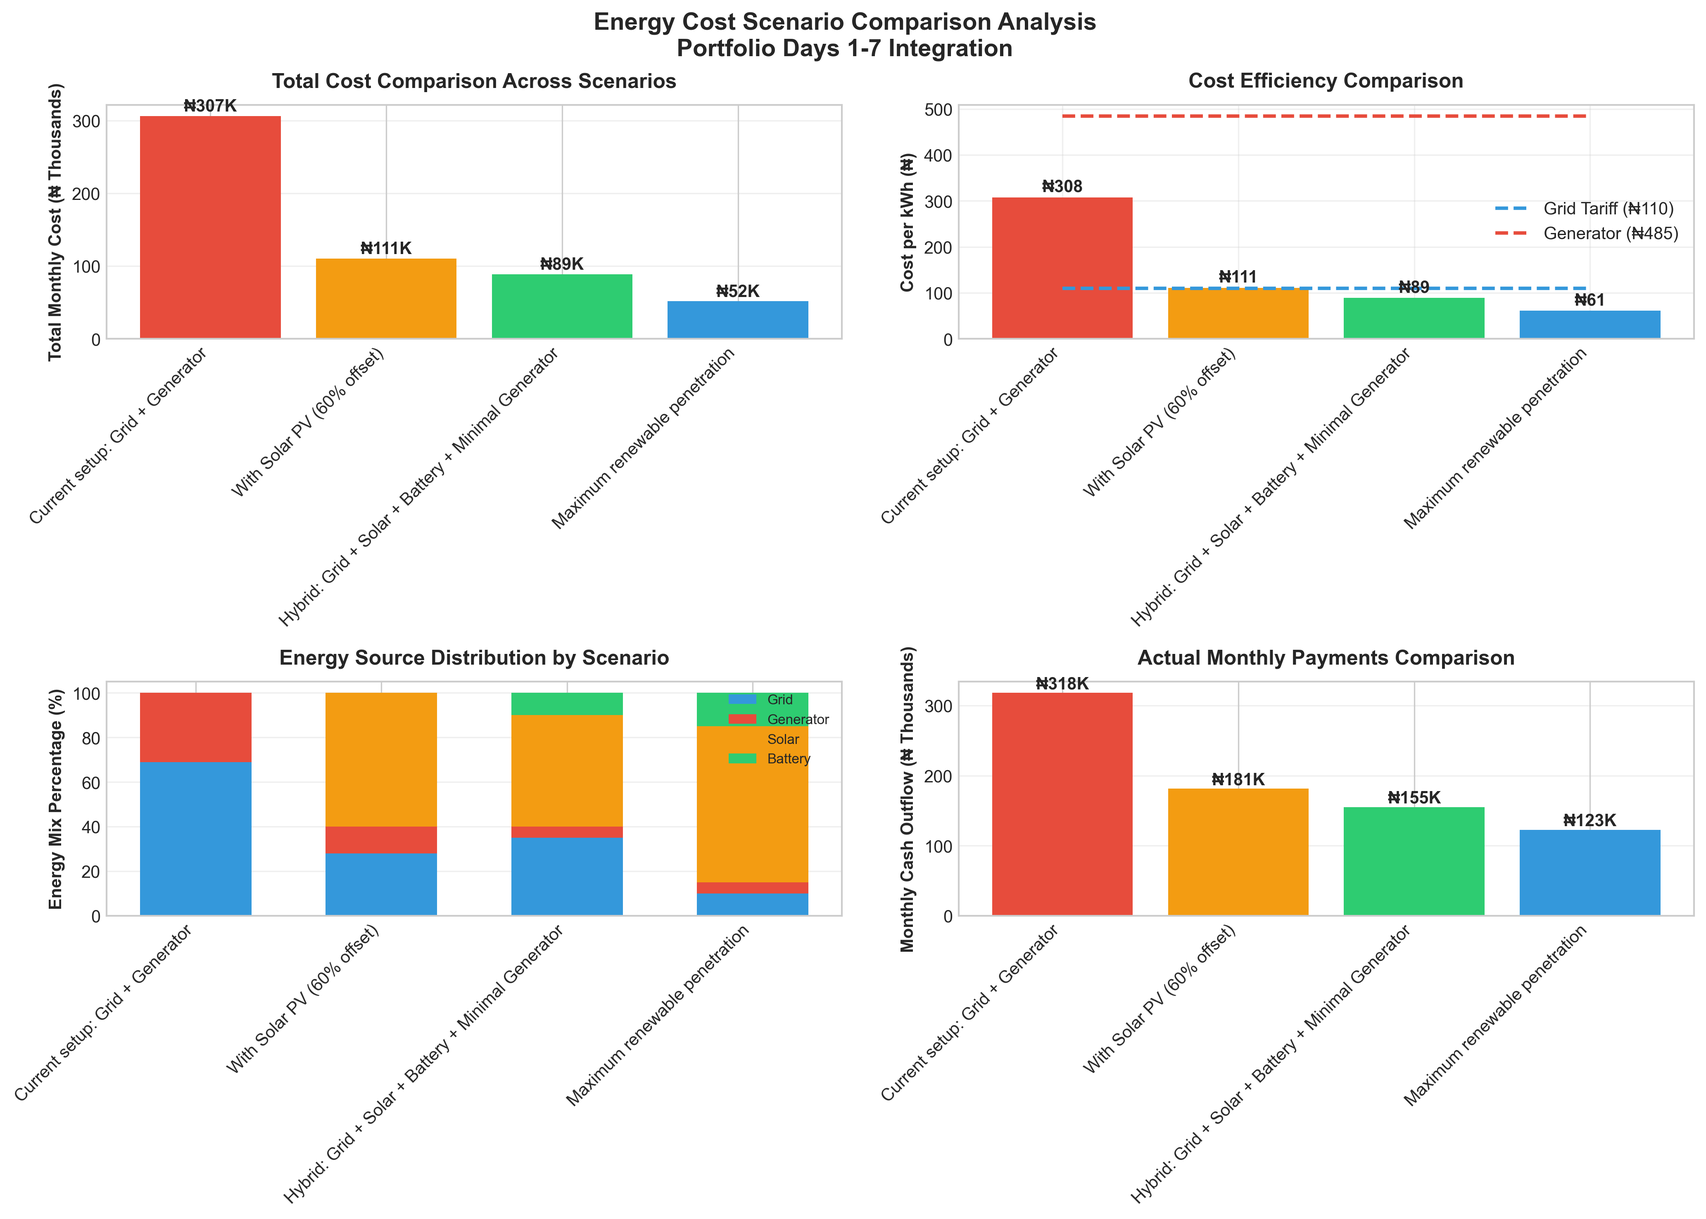
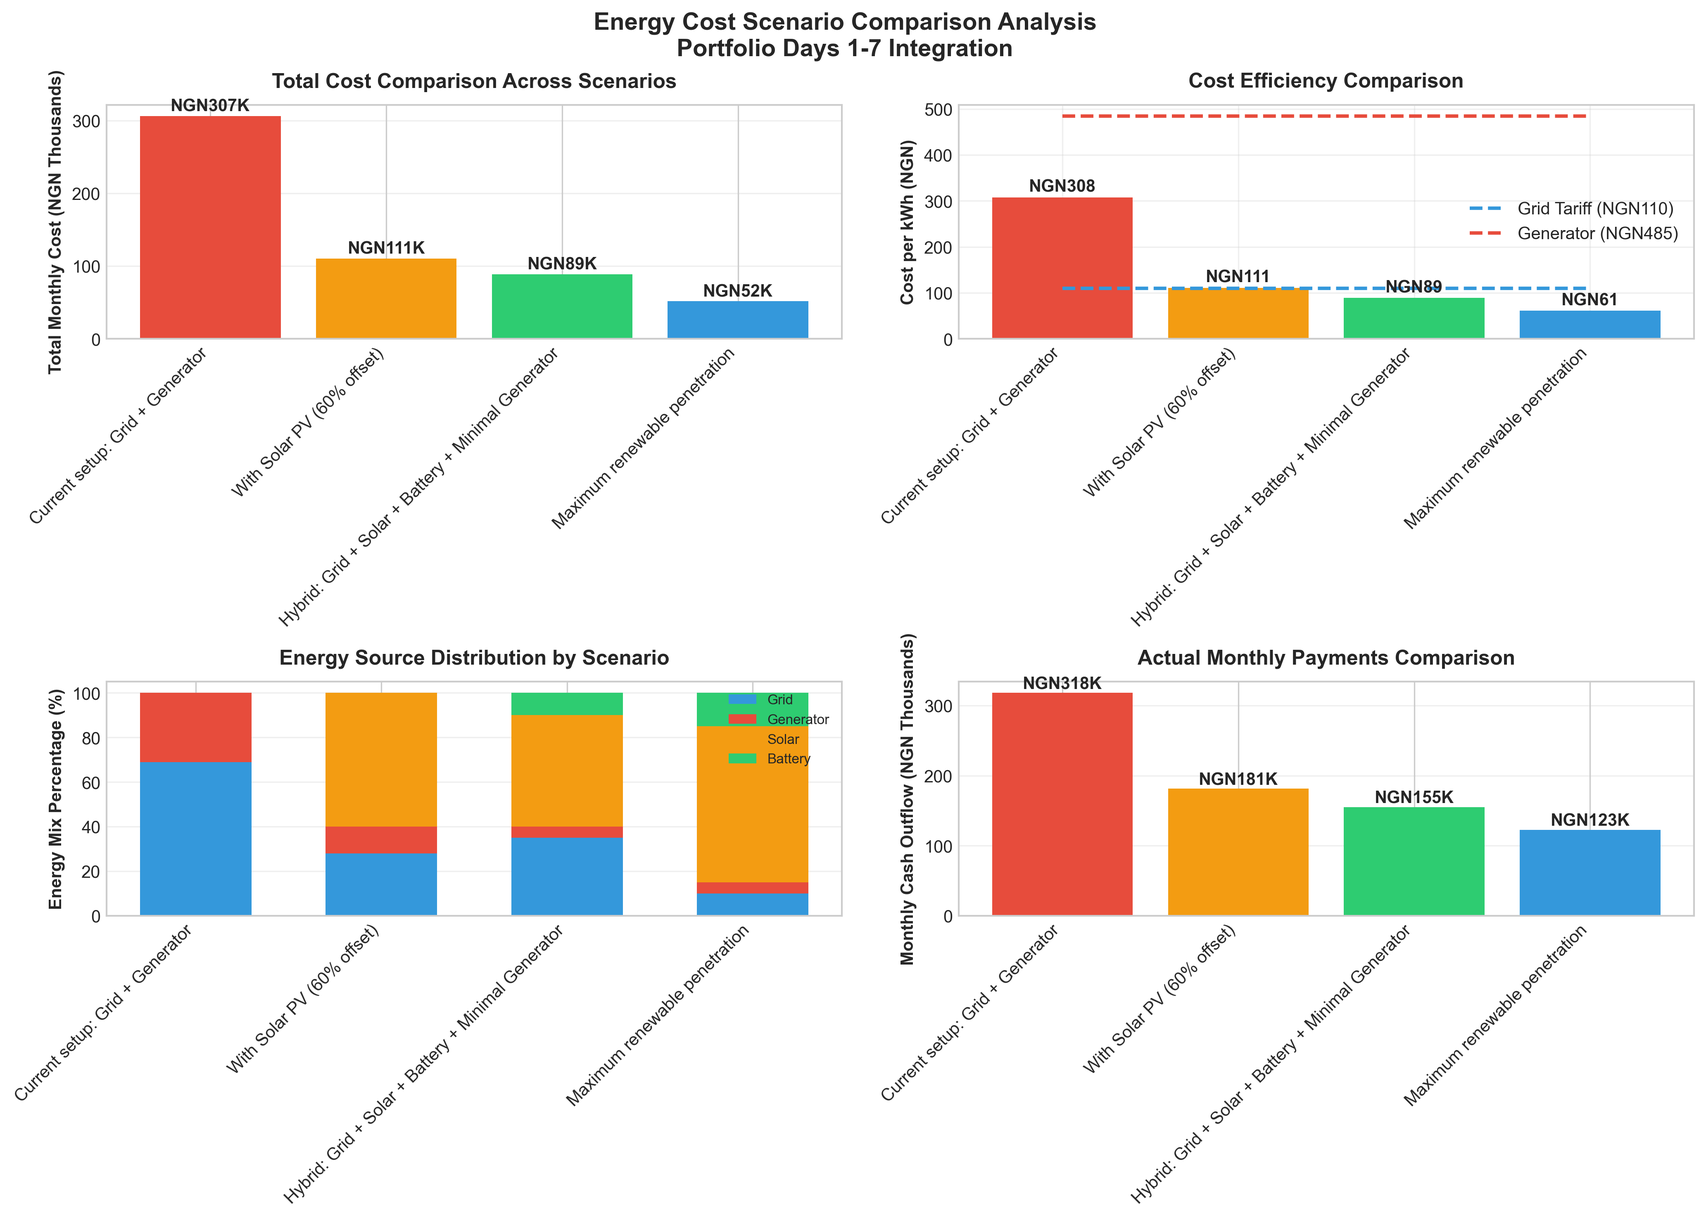
commit

diff --git a/day7/monthly_energy_cost.py b/day7/monthly_energy_cost.py
@@ -319,20 +319,20 @@ def create_cost_breakdown_dashboard(breakdown, scenario_name, energy_sources):
     colors = ['#3498DB', '#E74C3C', '#2C3E50', '#7F8C8D']
     
     bars3 = ax3.bar(cost_labels, cost_per_kwh, color=colors)
-    ax3.set_ylabel('Cost per kWh (₦)', fontweight='bold')
+    ax3.set_ylabel('Cost per kWh (NGN)', fontweight='bold')
     ax3.set_title('Cost Efficiency Comparison', fontweight='bold', pad=10)
     ax3.grid(True, alpha=0.3, axis='y')
     
     for bar, cost in zip(bars3, cost_per_kwh):
         height = bar.get_height()
         ax3.text(bar.get_x() + bar.get_width()/2., height + 5,
-                f'₦{cost:.0f}', ha='center', va='bottom', fontweight='bold')
+                f'NGN{cost:.0f}', ha='center', va='bottom', fontweight='bold')
     
     # 4. Monthly Cash Flow Breakdown
     ax4 = fig.add_subplot(gs[1, 1])
     
     cash_labels = list(breakdown['cash_flow']['components'].keys())
-    cash_values = [v/1000 for v in breakdown['cash_flow']['components'].values()]  # Convert to ₦K
+    cash_values = [v/1000 for v in breakdown['cash_flow']['components'].values()]  # Convert to NGN Thousands
     
     # Clean up labels for display
     display_labels = []
@@ -346,14 +346,14 @@ def create_cost_breakdown_dashboard(breakdown, scenario_name, energy_sources):
     
     bars4 = ax4.bar(display_labels, cash_values, 
                     color=['#3498DB', '#E74C3C', '#E67E22', '#F39C12', '#2ECC71', '#9B59B6'])
-    ax4.set_ylabel('Monthly Payment (₦ Thousands)', fontweight='bold')
+    ax4.set_ylabel('Monthly Payment (NGN Thousands)', fontweight='bold')
     ax4.set_title('Monthly Cash Outflow Breakdown', fontweight='bold', pad=10)
     ax4.grid(True, alpha=0.3, axis='y')
     
     for i, (bar, val) in enumerate(zip(bars4, cash_values)):
         height = bar.get_height()
         ax4.text(bar.get_x() + bar.get_width()/2., height + 0.5,
-                f'₦{val:.0f}K', ha='center', va='bottom', fontweight='bold', fontsize=9)
+                f'NGN{val:.0f}K', ha='center', va='bottom', fontweight='bold', fontsize=9)
     
     # Clean scenario name for filename
     clean_scenario_name = scenario_name.replace(":", "").replace("+", "and").replace(" ", "_").lower()
@@ -383,10 +383,10 @@ SCENARIO SUMMARY: {scenario_name}
 
 MONTHLY TOTALS:
 • Energy Consumption: {breakdown['monthly_energy_kwh']:,.0f} kWh
-• Total Net Cost: ₦{breakdown['total_costs']['total_net_cost_ngn']:,.0f}
-• Cash Outflow: ₦{breakdown['cash_flow']['monthly_outflow_ngn']:,.0f}
-• Cost per kWh: ₦{breakdown['unit_costs']['cost_per_kwh_total']:.0f}
-• Annual Energy Budget: ₦{breakdown['total_costs']['total_net_cost_ngn'] * 12:,.0f}
+• Total Net Cost: NGN{breakdown['total_costs']['total_net_cost_ngn']:,.0f}
+• Cash Outflow: NGN{breakdown['cash_flow']['monthly_outflow_ngn']:,.0f}
+• Cost per kWh: NGN{breakdown['unit_costs']['cost_per_kwh_total']:.0f}
+• Annual Energy Budget: NGN{breakdown['total_costs']['total_net_cost_ngn'] * 12:,.0f}
 
 ENERGY MIX:
 • Grid: {breakdown['energy_by_source']['grid_kwh']:.0f} kWh ({breakdown['efficiency_metrics']['energy_mix_percent']['grid_percent']}%)
@@ -395,46 +395,46 @@ ENERGY MIX:
 • Battery: {breakdown['energy_by_source']['battery_kwh']:.0f} kWh ({breakdown['efficiency_metrics']['energy_mix_percent']['battery_percent']}%)
 
 COST BREAKDOWN:
-• Grid: ₦{breakdown['costs_by_source']['grid_ngn']:,.0f} ({breakdown['percentages'].get('grid', 0):.1f}%)
-• Generator: ₦{breakdown['costs_by_source']['generator_ngn']:,.0f} ({breakdown['percentages'].get('generator', 0):.1f}%)
-• Solar (Net): ₦{breakdown['costs_by_source']['solar_ngn']:,.0f} ({breakdown['percentages'].get('solar_net', 0):.1f}%)
-• Battery: ₦{breakdown['costs_by_source']['battery_ngn']:,.0f} ({breakdown['percentages'].get('battery', 0):.1f}%)
-• Efficiency: ₦{breakdown['costs_by_source']['efficiency_ngn']:,.0f} ({breakdown['percentages'].get('efficiency_net', 0):.1f}%)
+• Grid: NGN{breakdown['costs_by_source']['grid_ngn']:,.0f} ({breakdown['percentages'].get('grid', 0):.1f}%)
+• Generator: NGN{breakdown['costs_by_source']['generator_ngn']:,.0f} ({breakdown['percentages'].get('generator', 0):.1f}%)
+• Solar (Net): NGN{breakdown['costs_by_source']['solar_ngn']:,.0f} ({breakdown['percentages'].get('solar_net', 0):.1f}%)
+• Battery: NGN{breakdown['costs_by_source']['battery_ngn']:,.0f} ({breakdown['percentages'].get('battery', 0):.1f}%)
+• Efficiency: NGN{breakdown['costs_by_source']['efficiency_ngn']:,.0f} ({breakdown['percentages'].get('efficiency_net', 0):.1f}%)
 
 RELIABILITY METRICS:
 • Outage Hours: {breakdown['efficiency_metrics']['outage_hours_monthly']:.0f} hrs/month
 • Reliability: {breakdown['efficiency_metrics']['reliability_percent']:.1f}%
-• Outage Cost per Hour: ~₦{(breakdown['total_costs']['total_net_cost_ngn'] / 730 * (breakdown['efficiency_metrics']['outage_hours_monthly'] / 30)):.0f}
+• Outage Cost per Hour: ~NGN{(breakdown['total_costs']['total_net_cost_ngn'] / 730 * (breakdown['efficiency_metrics']['outage_hours_monthly'] / 30)):.0f}
 
 COST EFFICIENCY:
-• Grid Tariff: ₦{breakdown['unit_costs']['grid_tariff']}/kWh
-• Generator Cost: ₦{breakdown['unit_costs']['generator_cost_per_kwh']}/kWh
-• Scenario Average: ₦{breakdown['unit_costs']['cost_per_kwh_total']:.0f}/kWh
-• Energy Only Cost: ₦{breakdown['unit_costs']['cost_per_kwh_energy_only']:.0f}/kWh (excluding capital)
+• Grid Tariff: NGN{breakdown['unit_costs']['grid_tariff']}/kWh
+• Generator Cost: NGN{breakdown['unit_costs']['generator_cost_per_kwh']}/kWh
+• Scenario Average: NGN{breakdown['unit_costs']['cost_per_kwh_total']:.0f}/kWh
+• Energy Only Cost: NGN{breakdown['unit_costs']['cost_per_kwh_energy_only']:.0f}/kWh (excluding capital)
 
 CASH FLOW DETAILS:
-• Grid Bill: ₦{breakdown['cash_flow']['components']['grid_bill']:,.0f}
-• Generator Fuel: ₦{breakdown['cash_flow']['components']['generator_fuel']:,.0f}
-• Generator Maintenance: ₦{breakdown['cash_flow']['components']['generator_maintenance']:,.0f}
-• Solar Loan: ₦{breakdown['cash_flow']['components']['solar_loan']:,.0f}
-• Battery Loan: ₦{breakdown['cash_flow']['components']['battery_loan']:,.0f}
-• Efficiency Loan: ₦{breakdown['cash_flow']['components']['efficiency_loan']:,.0f}
+• Grid Bill: NGN{breakdown['cash_flow']['components']['grid_bill']:,.0f}
+• Generator Fuel: NGN{breakdown['cash_flow']['components']['generator_fuel']:,.0f}
+• Generator Maintenance: NGN{breakdown['cash_flow']['components']['generator_maintenance']:,.0f}
+• Solar Loan: NGN{breakdown['cash_flow']['components']['solar_loan']:,.0f}
+• Battery Loan: NGN{breakdown['cash_flow']['components']['battery_loan']:,.0f}
+• Efficiency Loan: NGN{breakdown['cash_flow']['components']['efficiency_loan']:,.0f}
 
 KEY INSIGHTS:
 • Largest Cost Component: {max(breakdown['percentages'], key=breakdown['percentages'].get).upper()} at {breakdown['percentages'][max(breakdown['percentages'], key=breakdown['percentages'].get)]:.1f}%
 • Generator vs Grid: Generator costs are {breakdown['costs_by_source']['generator_ngn']/breakdown['costs_by_source']['grid_ngn']:.1f}x grid costs
 • Renewable Share: {breakdown['percentages'].get('solar_net', 0) + breakdown['percentages'].get('battery', 0):.1f}% of total costs
-• Monthly Savings: ₦{breakdown['total_costs']['total_savings_ngn']:,.0f} from solar and efficiency
+• Monthly Savings: NGN{breakdown['total_costs']['total_savings_ngn']:,.0f} from solar and efficiency
 
 BUDGETING RECOMMENDATIONS:
-• Fixed Monthly Allocation: ₦{breakdown['cash_flow']['monthly_outflow_ngn'] * 1.1:,.0f} (with 10% buffer)
-• Variable Cost Buffer: ₦{breakdown['total_costs']['total_energy_cost_ngn'] * 0.15:,.0f} for tariff increases
-• Maintenance Reserve: ₦{breakdown['cash_flow']['components']['generator_maintenance'] * 3:,.0f} quarterly
-• Emergency Fund: ₦{breakdown['total_costs']['total_net_cost_ngn'] * 2:,.0f} for unexpected outages
+• Fixed Monthly Allocation: NGN{breakdown['cash_flow']['monthly_outflow_ngn'] * 1.1:,.0f} (with 10% buffer)
+• Variable Cost Buffer: NGN{breakdown['total_costs']['total_energy_cost_ngn'] * 0.15:,.0f} for tariff increases
+• Maintenance Reserve: NGN{breakdown['cash_flow']['components']['generator_maintenance'] * 3:,.0f} quarterly
+• Emergency Fund: NGN{breakdown['total_costs']['total_net_cost_ngn'] * 2:,.0f} for unexpected outages
 
 OPTIMIZATION OPPORTUNITIES:
-• Reduce Generator Use: Each kWh saved from generator saves ₦{breakdown['unit_costs']['generator_cost_per_kwh'] - breakdown['unit_costs']['grid_tariff']} vs grid
-• Increase Solar Self-Consumption: Each additional solar kWh self-consumed saves ₦{breakdown['unit_costs']['grid_tariff']}
+• Reduce Generator Use: Each kWh saved from generator saves NGN{breakdown['unit_costs']['generator_cost_per_kwh'] - breakdown['unit_costs']['grid_tariff']} vs grid
+• Increase Solar Self-Consumption: Each additional solar kWh self-consumed saves NGN{breakdown['unit_costs']['grid_tariff']}
 • Load Shifting: Move loads to solar hours to maximize self-consumption
 """
     
@@ -470,7 +470,7 @@ def create_scenario_comparison_chart(energy_sources):
     
     bars1 = ax1.bar(range(len(scenario_names)), total_costs, 
                    color=['#E74C3C', '#F39C12', '#2ECC71', '#3498DB'])
-    ax1.set_ylabel('Total Monthly Cost (₦ Thousands)', fontweight='bold')
+    ax1.set_ylabel('Total Monthly Cost (NGN Thousands)', fontweight='bold')
     ax1.set_title('Total Cost Comparison Across Scenarios', fontweight='bold', pad=10)
     ax1.set_xticks(range(len(scenario_names)))
     ax1.set_xticklabels(scenario_names, rotation=45, ha='right')
@@ -479,7 +479,7 @@ def create_scenario_comparison_chart(energy_sources):
     for i, (bar, cost) in enumerate(zip(bars1, total_costs)):
         height = bar.get_height()
         ax1.text(bar.get_x() + bar.get_width()/2., height + 2,
-                f'₦{cost:.0f}K', ha='center', va='bottom', fontweight='bold')
+                f'NGN{cost:.0f}K', ha='center', va='bottom', fontweight='bold')
     
     # 2. Cost per kWh Comparison
     costs_per_kwh = [b['unit_costs']['cost_per_kwh_total'] for b in all_breakdowns.values()]
@@ -488,9 +488,9 @@ def create_scenario_comparison_chart(energy_sources):
     
     bars2 = ax2.bar(range(len(scenario_names)), costs_per_kwh, 
                    color=['#E74C3C', '#F39C12', '#2ECC71', '#3498DB'])
-    ax2.plot(range(len(scenario_names)), grid_line, '--', color='#3498DB', linewidth=2, label='Grid Tariff (₦110)')
-    ax2.plot(range(len(scenario_names)), generator_line, '--', color='#E74C3C', linewidth=2, label='Generator (₦485)')
-    ax2.set_ylabel('Cost per kWh (₦)', fontweight='bold')
+    ax2.plot(range(len(scenario_names)), grid_line, '--', color='#3498DB', linewidth=2, label='Grid Tariff (NGN110)')
+    ax2.plot(range(len(scenario_names)), generator_line, '--', color='#E74C3C', linewidth=2, label='Generator (NGN485)')
+    ax2.set_ylabel('Cost per kWh (NGN)', fontweight='bold')
     ax2.set_title('Cost Efficiency Comparison', fontweight='bold', pad=10)
     ax2.set_xticks(range(len(scenario_names)))
     ax2.set_xticklabels(scenario_names, rotation=45, ha='right')
@@ -500,7 +500,7 @@ def create_scenario_comparison_chart(energy_sources):
     for i, (bar, cost) in enumerate(zip(bars2, costs_per_kwh)):
         height = bar.get_height()
         ax2.text(bar.get_x() + bar.get_width()/2., height + 5,
-                f'₦{cost:.0f}', ha='center', va='bottom', fontweight='bold')
+                f'NGN{cost:.0f}', ha='center', va='bottom', fontweight='bold')
     
     # 3. Energy Mix Comparison (Stacked Bar)
     ax3.set_ylabel('Energy Mix Percentage (%)', fontweight='bold')
@@ -534,7 +534,7 @@ def create_scenario_comparison_chart(energy_sources):
     
     bars4 = ax4.bar(range(len(scenario_names)), cash_outflows,
                    color=['#E74C3C', '#F39C12', '#2ECC71', '#3498DB'])
-    ax4.set_ylabel('Monthly Cash Outflow (₦ Thousands)', fontweight='bold')
+    ax4.set_ylabel('Monthly Cash Outflow (NGN Thousands)', fontweight='bold')
     ax4.set_title('Actual Monthly Payments Comparison', fontweight='bold', pad=10)
     ax4.set_xticks(range(len(scenario_names)))
     ax4.set_xticklabels(scenario_names, rotation=45, ha='right')
@@ -543,7 +543,7 @@ def create_scenario_comparison_chart(energy_sources):
     for i, (bar, cash) in enumerate(zip(bars4, cash_outflows)):
         height = bar.get_height()
         ax4.text(bar.get_x() + bar.get_width()/2., height + 1,
-                f'₦{cash:.0f}K', ha='center', va='bottom', fontweight='bold')
+                f'NGN{cash:.0f}K', ha='center', va='bottom', fontweight='bold')
     
     plt.suptitle('Energy Cost Scenario Comparison Analysis\nPortfolio Days 1-7 Integration', 
                 fontsize=14, fontweight='bold', y=0.98)
@@ -593,13 +593,13 @@ def analyze_cost_drivers(breakdown):
         "cost_structure": {
             "variable_costs_ngn": variable_costs,
             "fixed_costs_ngn": fixed_costs,
-            "variable_percent": (variable_costs / total_costs) * 100,
-            "fixed_percent": (fixed_costs / total_costs) * 100
+            "variable_percent": (variable_costs / total_costs) * 100 if total_costs > 0 else 0,
+            "fixed_percent": (fixed_costs / total_costs) * 100 if total_costs > 0 else 0
         },
         "biggest_driver": {
             "component": max_component,
             "cost_ngn": max_value,
-            "percentage": (max_value / total_costs) * 100
+            "percentage": (max_value / total_costs) * 100 if total_costs > 0 else 0
         },
         "sensitivity": {
             "per_10pct_usage_increase_ngn": total_sensitivity,
@@ -623,7 +623,7 @@ def analyze_cost_drivers(breakdown):
         drivers["optimization_recommendations"].append("Generator costs exceed grid costs - prioritize solar/battery to reduce generator use")
     
     if breakdown['unit_costs']['cost_per_kwh_total'] > 200:
-        drivers["optimization_recommendations"].append("Total cost per kWh is high (>₦200) - consider efficiency improvements")
+        drivers["optimization_recommendations"].append("Total cost per kWh is high (>NGN200) - consider efficiency improvements")
     
     return drivers
 
@@ -679,7 +679,7 @@ def export_analysis_results(breakdown, cost_drivers, scenario_name):
     
     df_cost = pd.DataFrame(cost_table)
     cost_filename = f'energy_cost_breakdown_{clean_scenario_name}.csv'
-    df_cost.to_csv(cost_filename, index=False)
+    df_cost.to_csv(cost_filename, index=False, encoding='utf-8')
     print(f"✓ Cost breakdown saved as: {cost_filename}")
     
     # Energy source table
@@ -708,18 +708,18 @@ def export_analysis_results(breakdown, cost_drivers, scenario_name):
     
     df_energy = pd.DataFrame(energy_table)
     energy_filename = f'energy_source_analysis_{clean_scenario_name}.csv'
-    df_energy.to_csv(energy_filename, index=False)
+    df_energy.to_csv(energy_filename, index=False, encoding='utf-8')
     print(f"✓ Energy source analysis saved as: {energy_filename}")
     
     # Create a summary text file
     summary_filename = f'energy_analysis_summary_{clean_scenario_name}.txt'
-    with open(summary_filename, 'w') as f:
+    with open(summary_filename, 'w', encoding='utf-8') as f:
         f.write(f"Energy Cost Analysis Summary - {scenario_name}\n")
         f.write("=" * 60 + "\n\n")
-        f.write(f"Total Monthly Cost: ₦{breakdown['total_costs']['total_net_cost_ngn']:,.0f}\n")
-        f.write(f"Cost per kWh: ₦{breakdown['unit_costs']['cost_per_kwh_total']:.0f}\n")
-        f.write(f"Monthly Cash Outflow: ₦{breakdown['cash_flow']['monthly_outflow_ngn']:,.0f}\n")
-        f.write(f"Annual Budget: ₦{breakdown['total_costs']['total_net_cost_ngn'] * 12:,.0f}\n\n")
+        f.write(f"Total Monthly Cost: NGN{breakdown['total_costs']['total_net_cost_ngn']:,.0f}\n")
+        f.write(f"Cost per kWh: NGN{breakdown['unit_costs']['cost_per_kwh_total']:.0f}\n")
+        f.write(f"Monthly Cash Outflow: NGN{breakdown['cash_flow']['monthly_outflow_ngn']:,.0f}\n")
+        f.write(f"Annual Budget: NGN{breakdown['total_costs']['total_net_cost_ngn'] * 12:,.0f}\n\n")
         f.write("Biggest Cost Driver:\n")
         f.write(f"  - {cost_drivers['biggest_driver']['component']}: {cost_drivers['biggest_driver']['percentage']:.1f}%\n\n")
         f.write("Optimization Recommendations:\n")
@@ -749,10 +749,10 @@ def main():
     # Step 1: Define energy sources
     print("\n1. DEFINING ENERGY SOURCES & COSTS...")
     energy_sources = define_energy_sources()
-    print(f"   • Grid Tariff: ₦{energy_sources['grid']['tariff_per_kwh']}/kWh")
-    print(f"   • Generator Cost: ₦{energy_sources['generator']['cost_per_kwh']}/kWh (incl. capital)")
-    print(f"   • Solar Amortized: ₦{energy_sources['solar_pv']['amortized_cost_monthly']:,.0f}/month")
-    print(f"   • Battery Amortized: ₦{energy_sources['battery_storage']['amortized_cost_monthly']:,.0f}/month")
+    print(f"   • Grid Tariff: NGN{energy_sources['grid']['tariff_per_kwh']}/kWh")
+    print(f"   • Generator Cost: NGN{energy_sources['generator']['cost_per_kwh']}/kWh (incl. capital)")
+    print(f"   • Solar Amortized: NGN{energy_sources['solar_pv']['amortized_cost_monthly']:,.0f}/month")
+    print(f"   • Battery Amortized: NGN{energy_sources['battery_storage']['amortized_cost_monthly']:,.0f}/month")
     
     # Step 2: Define usage scenarios
     print("\n2. DEFINING USAGE SCENARIOS...")
@@ -767,9 +767,9 @@ def main():
     # Step 3: Calculate cost breakdown
     print("\n3. CALCULATING COST BREAKDOWN...")
     breakdown = calculate_cost_breakdown(selected_scenario, energy_sources)
-    print(f"   • Total Monthly Cost: ₦{breakdown['total_costs']['total_net_cost_ngn']:,.0f}")
-    print(f"   • Cost per kWh: ₦{breakdown['unit_costs']['cost_per_kwh_total']:.0f}")
-    print(f"   • Monthly Cash Outflow: ₦{breakdown['cash_flow']['monthly_outflow_ngn']:,.0f}")
+    print(f"   • Total Monthly Cost: NGN{breakdown['total_costs']['total_net_cost_ngn']:,.0f}")
+    print(f"   • Cost per kWh: NGN{breakdown['unit_costs']['cost_per_kwh_total']:.0f}")
+    print(f"   • Monthly Cash Outflow: NGN{breakdown['cash_flow']['monthly_outflow_ngn']:,.0f}")
     
     # Step 4: Analyze cost drivers
     print("\n4. ANALYZING COST DRIVERS...")
@@ -802,22 +802,22 @@ COMPREHENSIVE COST AUDIT RESULTS:
 
 1. MONTHLY FINANCIAL SUMMARY:
    • Total Energy Consumption: {breakdown['monthly_energy_kwh']:,.0f} kWh
-   • Total Monthly Cost: ₦{breakdown['total_costs']['total_net_cost_ngn']:,.0f}
-   • Cost per kWh: ₦{breakdown['unit_costs']['cost_per_kwh_total']:.0f}
-   • Monthly Cash Outflow: ₦{breakdown['cash_flow']['monthly_outflow_ngn']:,.0f}
-   • Annual Energy Budget: ₦{breakdown['total_costs']['total_net_cost_ngn'] * 12:,.0f}
+   • Total Monthly Cost: NGN{breakdown['total_costs']['total_net_cost_ngn']:,.0f}
+   • Cost per kWh: NGN{breakdown['unit_costs']['cost_per_kwh_total']:.0f}
+   • Monthly Cash Outflow: NGN{breakdown['cash_flow']['monthly_outflow_ngn']:,.0f}
+   • Annual Energy Budget: NGN{breakdown['total_costs']['total_net_cost_ngn'] * 12:,.0f}
 
 2. ENERGY SOURCE BREAKDOWN:
-   • Grid: {breakdown['energy_by_source']['grid_kwh']:.0f} kWh ({breakdown['efficiency_metrics']['energy_mix_percent']['grid_percent']}%) → ₦{breakdown['costs_by_source']['grid_ngn']:,.0f}
-   • Generator: {breakdown['energy_by_source']['generator_kwh']:.0f} kWh ({breakdown['efficiency_metrics']['energy_mix_percent']['generator_percent']}%) → ₦{breakdown['costs_by_source']['generator_ngn']:,.0f}
-   • Solar PV: {breakdown['energy_by_source']['solar_kwh']:.0f} kWh ({breakdown['efficiency_metrics']['energy_mix_percent']['solar_percent']}%) → ₦{breakdown['costs_by_source']['solar_ngn']:,.0f}
-   • Battery: {breakdown['energy_by_source']['battery_kwh']:.0f} kWh ({breakdown['efficiency_metrics']['energy_mix_percent']['battery_percent']}%) → ₦{breakdown['costs_by_source']['battery_ngn']:,.0f}
+   • Grid: {breakdown['energy_by_source']['grid_kwh']:.0f} kWh ({breakdown['efficiency_metrics']['energy_mix_percent']['grid_percent']}%) → NGN{breakdown['costs_by_source']['grid_ngn']:,.0f}
+   • Generator: {breakdown['energy_by_source']['generator_kwh']:.0f} kWh ({breakdown['efficiency_metrics']['energy_mix_percent']['generator_percent']}%) → NGN{breakdown['costs_by_source']['generator_ngn']:,.0f}
+   • Solar PV: {breakdown['energy_by_source']['solar_kwh']:.0f} kWh ({breakdown['efficiency_metrics']['energy_mix_percent']['solar_percent']}%) → NGN{breakdown['costs_by_source']['solar_ngn']:,.0f}
+   • Battery: {breakdown['energy_by_source']['battery_kwh']:.0f} kWh ({breakdown['efficiency_metrics']['energy_mix_percent']['battery_percent']}%) → NGN{breakdown['costs_by_source']['battery_ngn']:,.0f}
 
 3. COST DRIVER ANALYSIS:
    • Primary Driver: {cost_drivers['biggest_driver']['component'].upper()} → {cost_drivers['biggest_driver']['percentage']:.1f}% of total
    • Cost Structure: {cost_drivers['cost_structure']['variable_percent']:.1f}% variable, {cost_drivers['cost_structure']['fixed_percent']:.1f}% fixed
    • Grid vs Generator: Generator costs are {breakdown['costs_by_source']['generator_ngn']/breakdown['costs_by_source']['grid_ngn']:.1f}x grid costs
-   • Efficiency Impact: Efficiency upgrades save ₦{breakdown['total_costs']['total_savings_ngn']:,.0f}/month
+   • Efficiency Impact: Efficiency upgrades save NGN{breakdown['total_costs']['total_savings_ngn']:,.0f}/month
 
 4. OPTIMIZATION RECOMMENDATIONS:
 """
